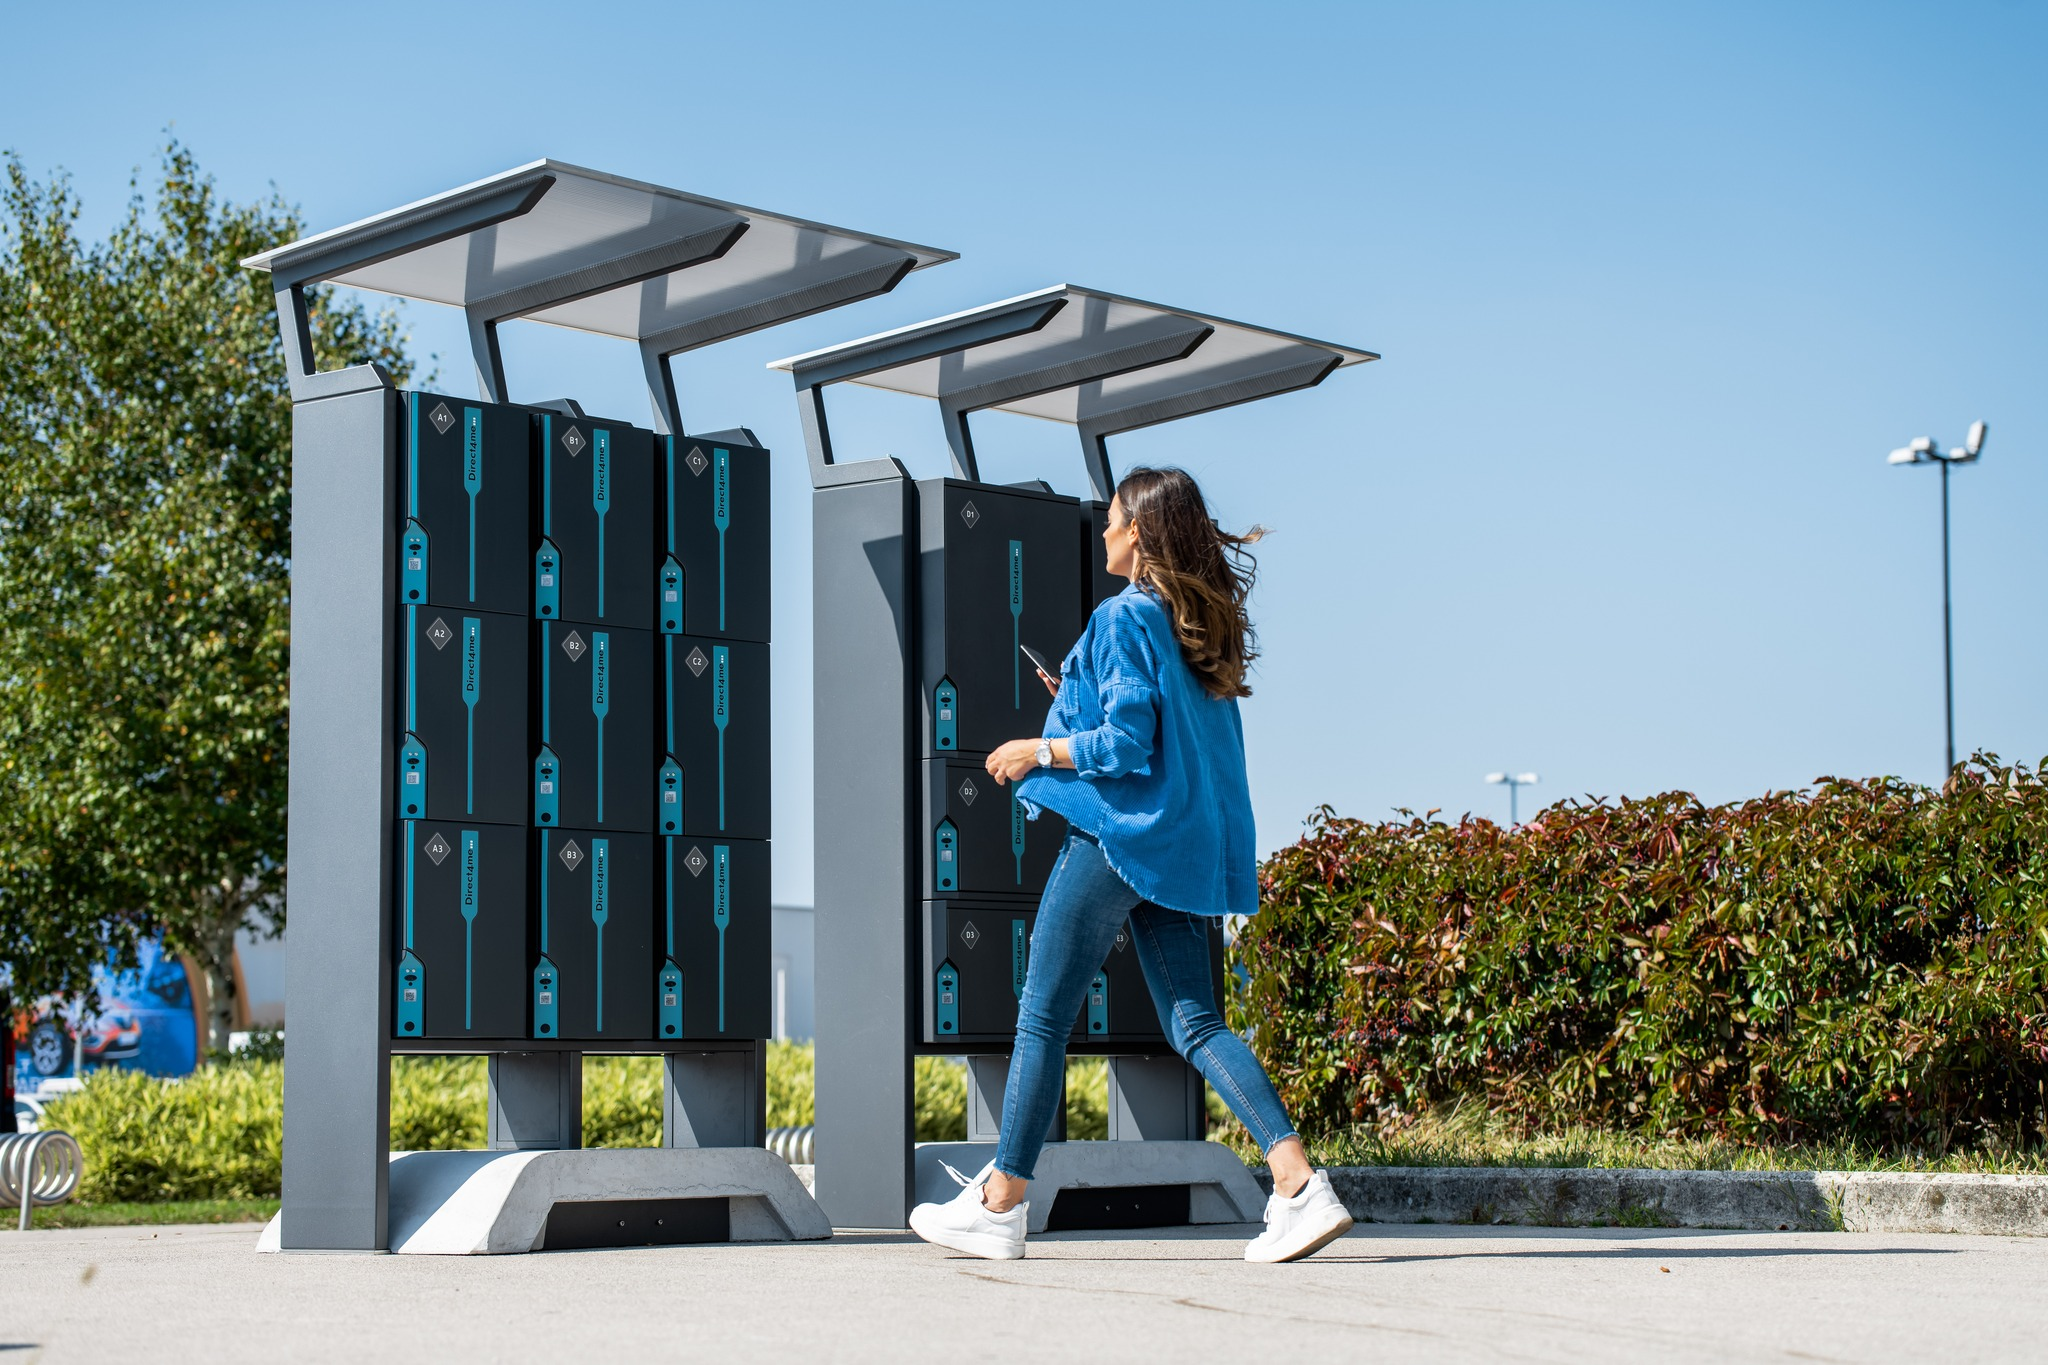
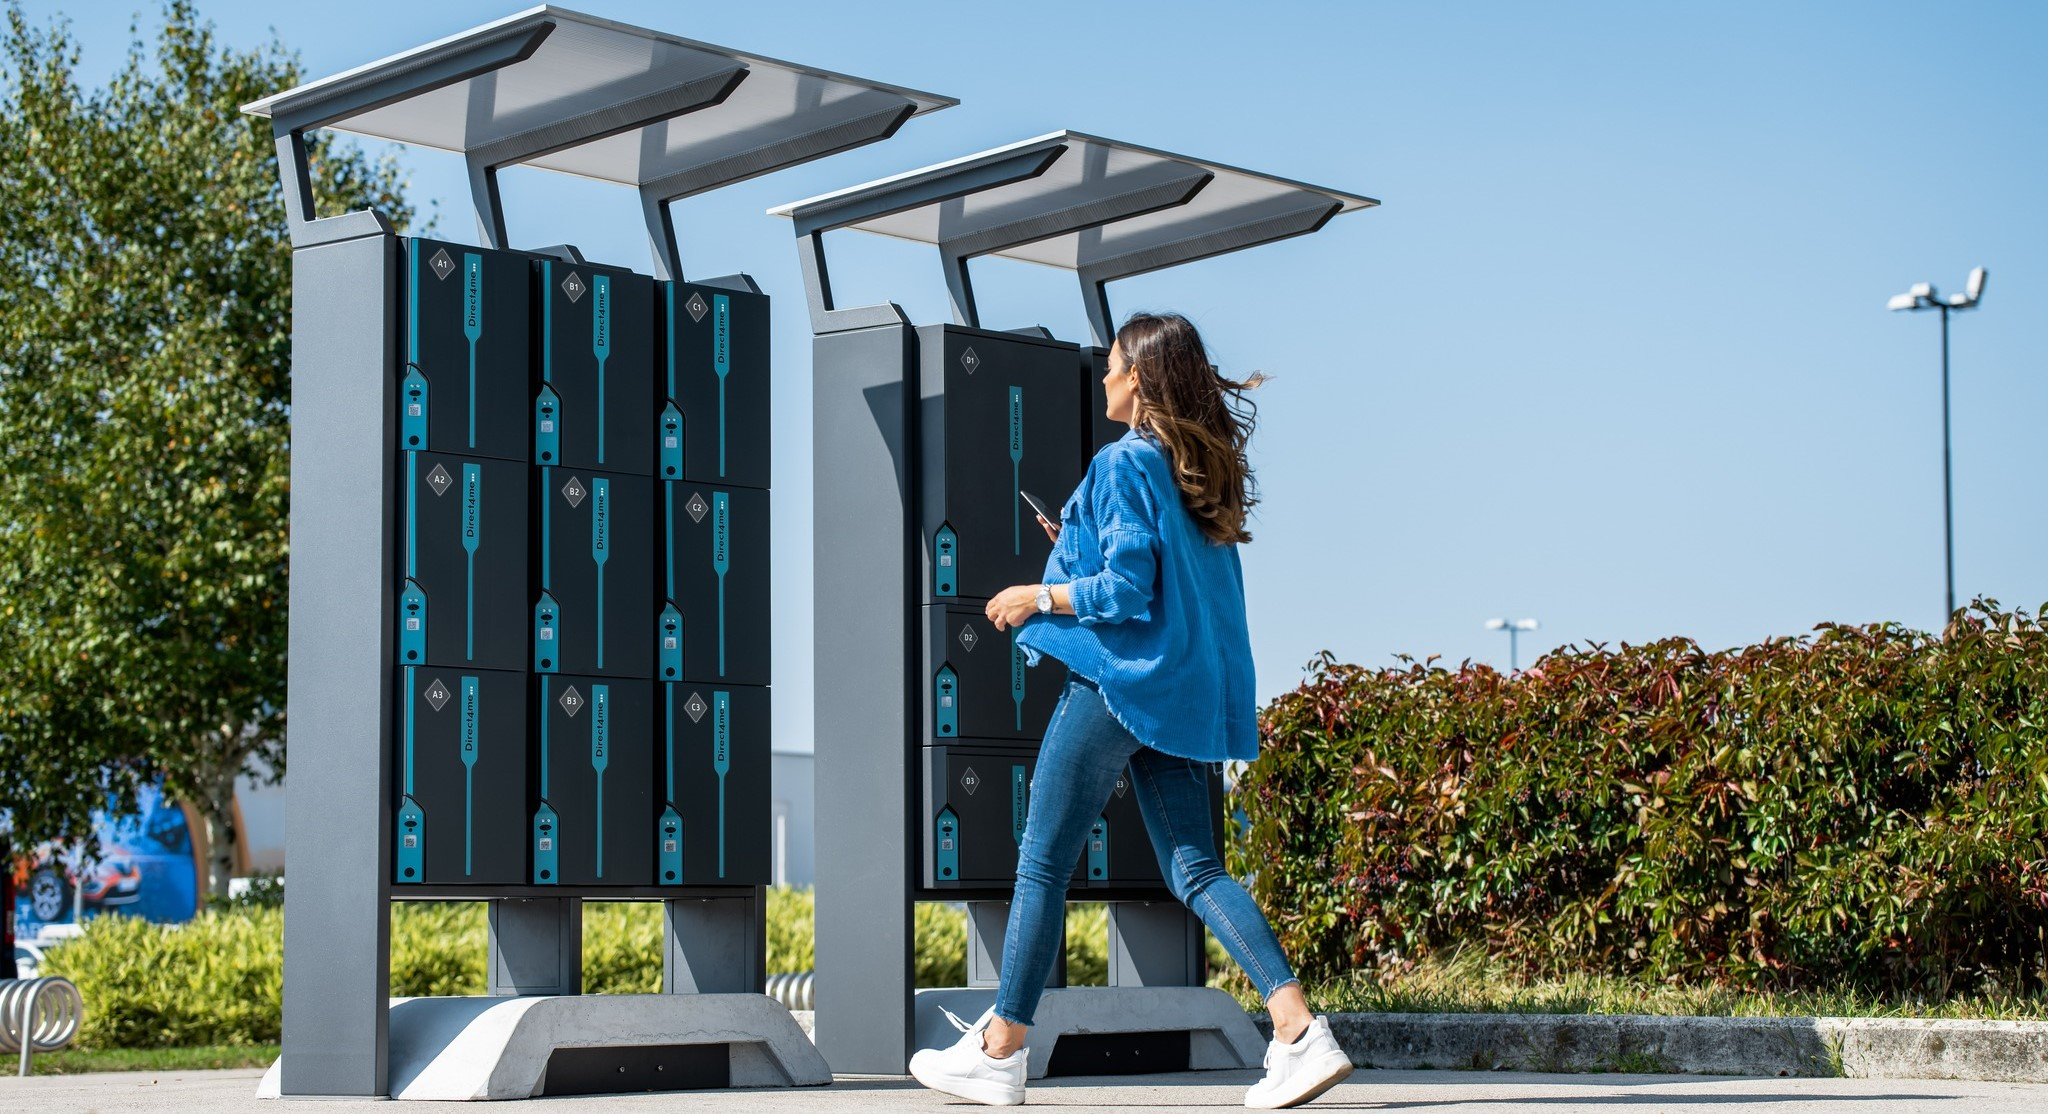
feat: fixed cover photo

diff --git a/frontend/src/components/styles/Home.css b/frontend/src/components/styles/Home.css
@@ -1,3 +1,23 @@
+.div-HOME {
+     display: flex;
+     justify-content: center;
+     align-items: center;
+     height: 800px; /* Prilagodite želeni višini */
+     width: 100%;
+     /*margin-left: 3%; */
+     /*padding-left: 2%;
+     padding-right: 2%;
+      */
+}
+
+.centered-image {
+     max-width: 100%;
+     max-height: 100%;
+     width: 100%;
+}
+
+
+/*
 .centered-image {
      object-fit: contain;
      max-width: 100%;
@@ -5,3 +25,5 @@
      width: 100%;
      height: auto;
 }
+
+ */

diff --git a/frontend/src/components/Home.js b/frontend/src/components/Home.js
@@ -6,8 +6,8 @@ import Mailboxes from "./Mailboxes";
 function Home() {
     return (
         <div>
-            <div>
-                <img src={image} className="centered-image"/>
+            <div className="div-HOME">
+                <img src={image} className="centered-image" alt="Naslovna slika"/>
             </div>
             <Mailboxes></Mailboxes>
         </div>
